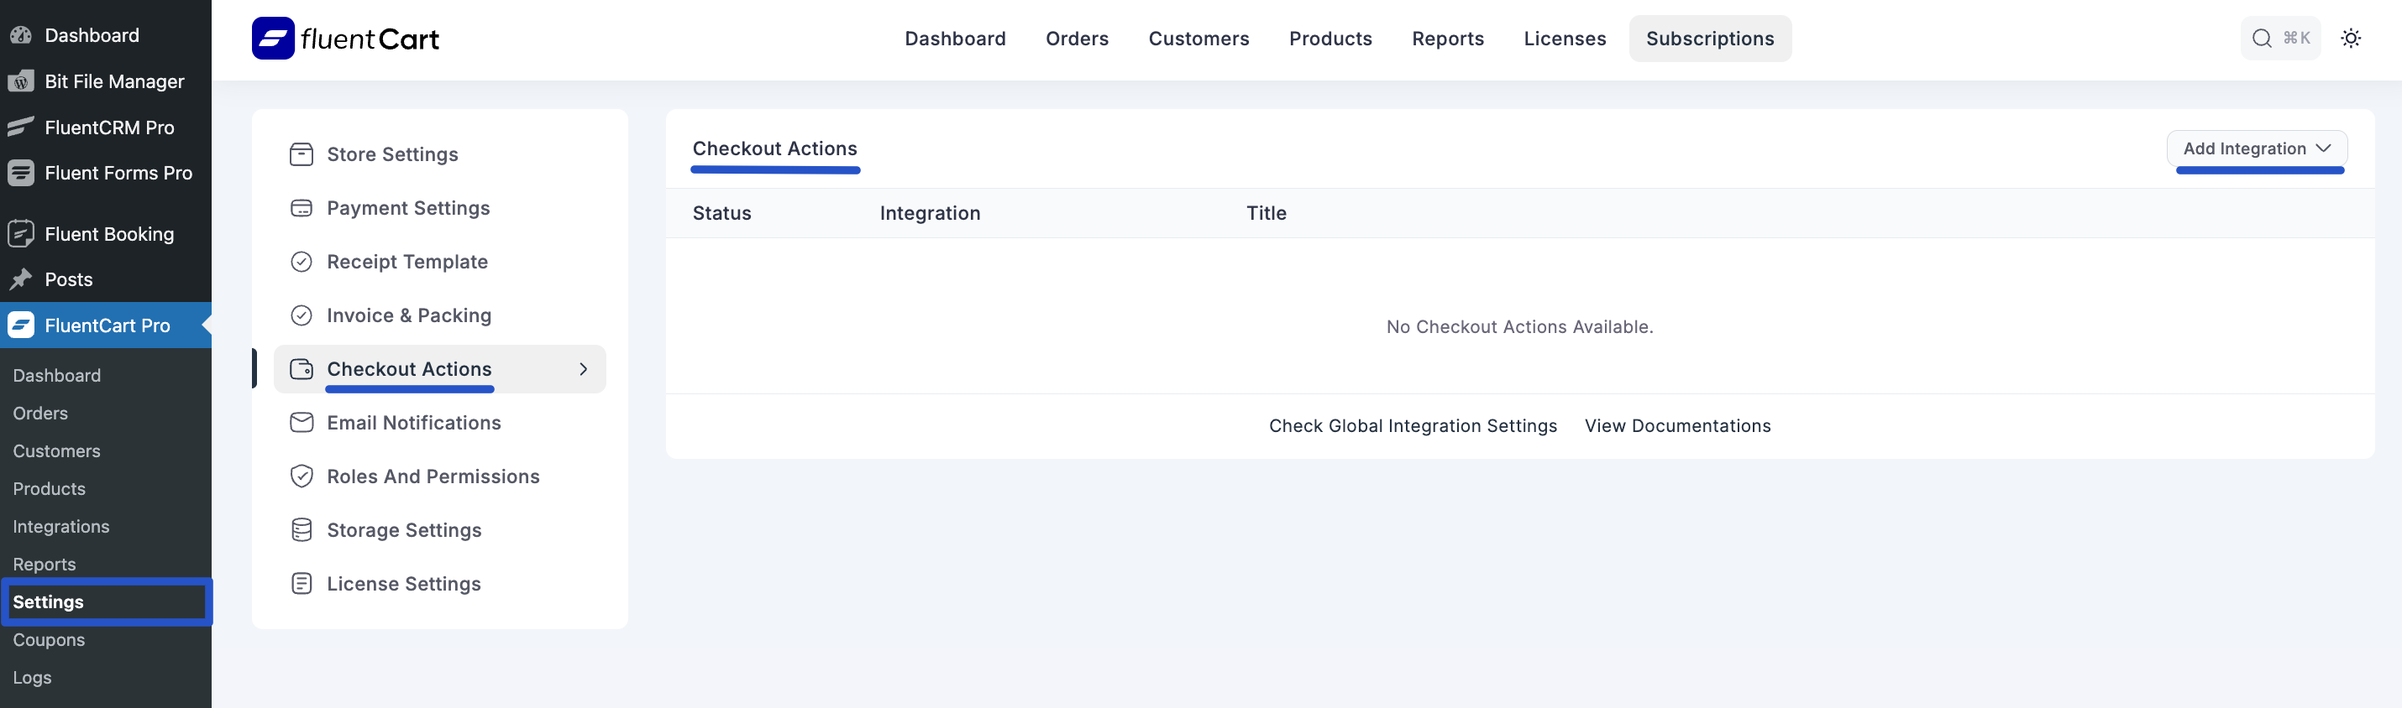
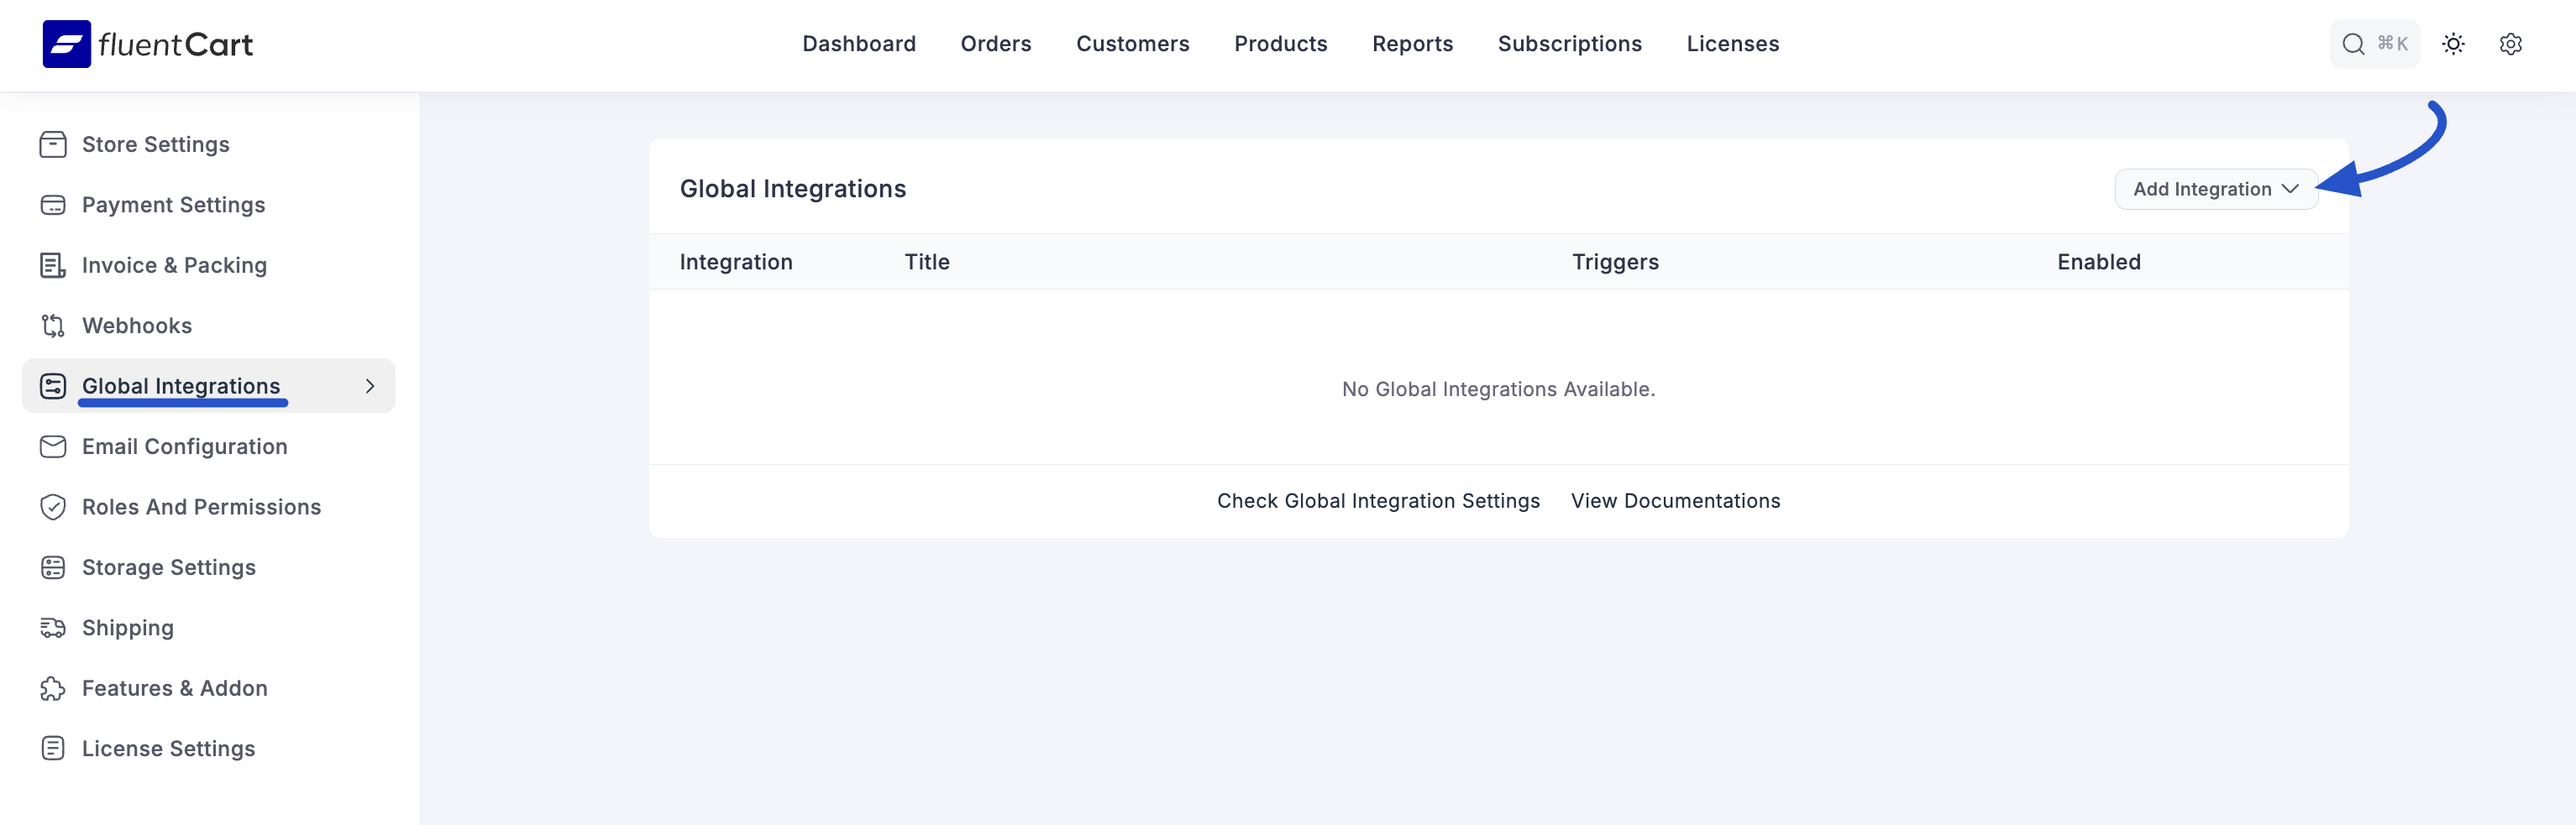
Updated doc and Screenshots

diff --git a/guide/payments-checkout/connecting-payment-gateways/stripe-settings.md b/guide/payments-checkout/connecting-payment-gateways/stripe-settings.md
@@ -1,23 +1,55 @@
 # Stripe Settings
 
-Stripe is a powerful platform that allows you to accept credit cards, debit cards, and various other payment methods globally through a single integration.
+Stripe is a powerful and globally recognized payment platform that allows you to securely accept credit cards, debit cards, and various other payment methods through a single, seamless integration.
 
-1.  Go to the **Payment Settings** option, locate **"Stripe"** and click the **"Manage"** button next to it.
-2.  This will open the **Stripe Settings** screen.
+This guide will walk you through connecting your Stripe account to FluentCart to begin accepting payments.
+
+## Step 1: Accessing Stripe Settings
+
+1.  From your WordPress dashboard, navigate to **FluentCart Pro > Settings**.
+2.  Click on the **Payment Settings** tab.
+3.  Locate **Stripe** in the list of payment gateways and click the **Manage** button next to it.
+
+#### Step 2: Connect Your Stripe Account
+
+The Stripe settings page allows you to connect your store in both Test and Live modes. You must select the appropriate mode before initiating the connection.
+
+* **Test Mode Warning:** If your store is currently in Test mode, a banner will remind you to switch to Live mode for real transactions.
+
+* **Select Credentials Mode:**
+    * **Test credentials:** Select this tab if you want to connect your Stripe account in Test Mode. This is perfect for testing your checkout flow without processing real payments.
+    * **Live credentials:** Select this tab when you are ready to start accepting real payments from customers.
+
+* **Connect with Stripe:** After selecting the appropriate tab (Test or Live), click the **Connect with stripe** button. This will redirect you to Stripe's website, where you will be prompted to log in and authorize the connection with FluentCart. This is a secure process that automatically syncs your account for the selected mode.
+
 
     ![Screenshot of Stripe Settings Page](/guide/public/images/payments-checkout/stripe-settings.png)
 
-3.  **Test Mode Warning:** If your store is in Test mode, a banner will remind you: "Your Store is in Test mode, Change Store's 'Order Mode' to 'Live' and update related settings to enable Live payment !!" This is crucial to switch to live mode for real transactions.
-4.  **Connect Your Stripe Account:**
-    * Enter your **Test credentials** and **Live credentials** (API keys) obtained from your Stripe Dashboard.
-    * Click **"Connect with stripe"** to initiate the connection process with your Stripe account.
-5.  **Configure Webhooks:** Webhooks are vital for FluentCart to receive real-time updates on your payments from Stripe.
-    * **Webhook URL:** The exact URL you need to use will be displayed (e.g., `https://temp.xcloudon.com?fct_payment_listener=1&method=stripe`).
-    * **Instructions:** Follow these steps to configure webhooks in your Stripe account:
-        1.  Go to **Developers > Webhooks** in your Stripe account.
-        2.  Under "Select events", choose **"Select all events"**.
-        3.  Click **"Webhook endpoint"**.
-        4.  Enter the **Webhook URL** provided by FluentCart into the **Endpoint URL** field to complete the setup.
+#### Step 3: Configure Webhooks
 
-6.  **Payment Activation:** In the top right corner of this page, ensure the Stripe **Payment Activation** option is "Active".
-7.  Click the **"Save Settings"** button to apply your changes. 
+Webhooks are essential for the integration to function correctly. They allow Stripe to send real-time notifications to your store about payment events, such as successful charges, refunds, and subscription updates.
+
+1.  **Copy Your Webhook URL:** On the FluentCart Stripe settings page, you will see your unique **Webhook URL**. Copy this URL to your clipboard.
+2.  **Configure in Stripe:**
+    * Log in to your Stripe account.
+    * Navigate to **Developers > Webhooks**.
+    * Click **Add endpoint**.
+    * Paste the **Webhook URL** you copied from FluentCart into the **Endpoint URL** field.
+    * Under **Select events to listen to**, click **Select events**.
+    * Select the following specific events:
+        * `checkout.session.completed`
+        * `charge.refunded`
+        * `charge.refund.updated`
+        * `charge.succeeded`
+        * `invoice.paid`
+        * `invoice.payment_failed`
+        * `customer.subscription.deleted`
+        * `customer.subscription.updated`
+    * Click **Add events**, and then click **Add endpoint** to save the configuration.
+
+#### Step 4: Activate and Save
+
+1.  **Payment Activation:** Back on the FluentCart Stripe settings page, ensure the **Payment Activation** toggle at the top right is switched on.
+2.  **Save Settings:** Click the **Save Settings** button at the bottom to finalize the setup.
+
+Your store is now configured to securely accept payments through Stripe.

diff --git a/guide/settings-configuration/global-integrations.md b/guide/settings-configuration/global-integrations.md
@@ -1,0 +1,36 @@
+# Managing Global Integrations
+
+The **Global Integrations** section (formerly known as Checkout Actions) is your central dashboard for managing powerful, event-driven automations that connect your FluentCart store to other essential services. These automations, often called "feeds," are triggered by specific events in your store, such as a new order being created or a subscription being renewed.
+
+By setting up these integrations, you can eliminate manual data entry and seamlessly send real-time information to your marketing platforms, CRMs, and other external tools. This allows you to build sophisticated, automated workflows that enhance your marketing efforts and streamline your business operations. This guide will walk you through how to manage these integrations.
+
+#### Accessing Global Integrations
+
+1.  From your WordPress dashboard, navigate to **FluentCart Pro > Settings**.
+2.  Click on the **Global Integrations** tab.
+
+    ![Screenshot of Checkout Actions Tab](/guide/public/images/settings-configuration/checkout/checkout-actions-tab.png)
+
+
+#### The Global Integrations Dashboard
+
+This screen provides a comprehensive overview of all the integration feeds you have configured, serving as your command center for all connected services.
+
+* **Integration List:** Displays all your feeds in a table, giving you an at-a-glance view of your automations:
+    * **Integration:** Shows the icon and name of the integrated service (e.g., FluentCRM), making it easy to identify the platform you are sending data to.
+    * **Title:** The custom name you gave to the integration feed for your own internal reference, helping you distinguish between different automations for the same service.
+    * **Triggers:** Lists the specific store event(s) that will trigger this automation. This is crucial for understanding exactly when your data is being sent.
+    * **Enabled:** Shows the current status of the feed, indicating whether it is active or inactive.
+* **Management Actions:** On the right-hand side of each feed, you will find several options for easy management:
+    * **Enable/Disable Toggle:** Use this switch to quickly activate or deactivate a feed without deleting its configuration. This is perfect for temporarily pausing an automation during testing or promotional periods.
+    * **Edit (Pencil Icon):** Click this to open the configuration screen and make changes to the feed's settings, such as adding new triggers or modifying data mappings.
+    * **Delete (Trash Can Icon):** Click this to permanently delete the integration feed. This action cannot be undone.
+
+#### Adding a New Integration
+
+To create a new automation, you can add a new integration feed. This is the starting point for connecting your store to a new service.
+
+1.  From the Global Integrations dashboard, click the **Add Integration** button at the top right.
+2.  A dropdown menu will appear, listing all the available integrations you can configure (e.g., **FluentCRM Feed**). These are the services that FluentCart is ready to connect with.
+3.  Select the integration you wish to add from the list.
+4.  You will be taken to the dedicated configuration screen for that specific integration. Here, you will set up the specific rules for the automation, such as defining the triggers, mapping data fields, and configuring any service-specific options.
